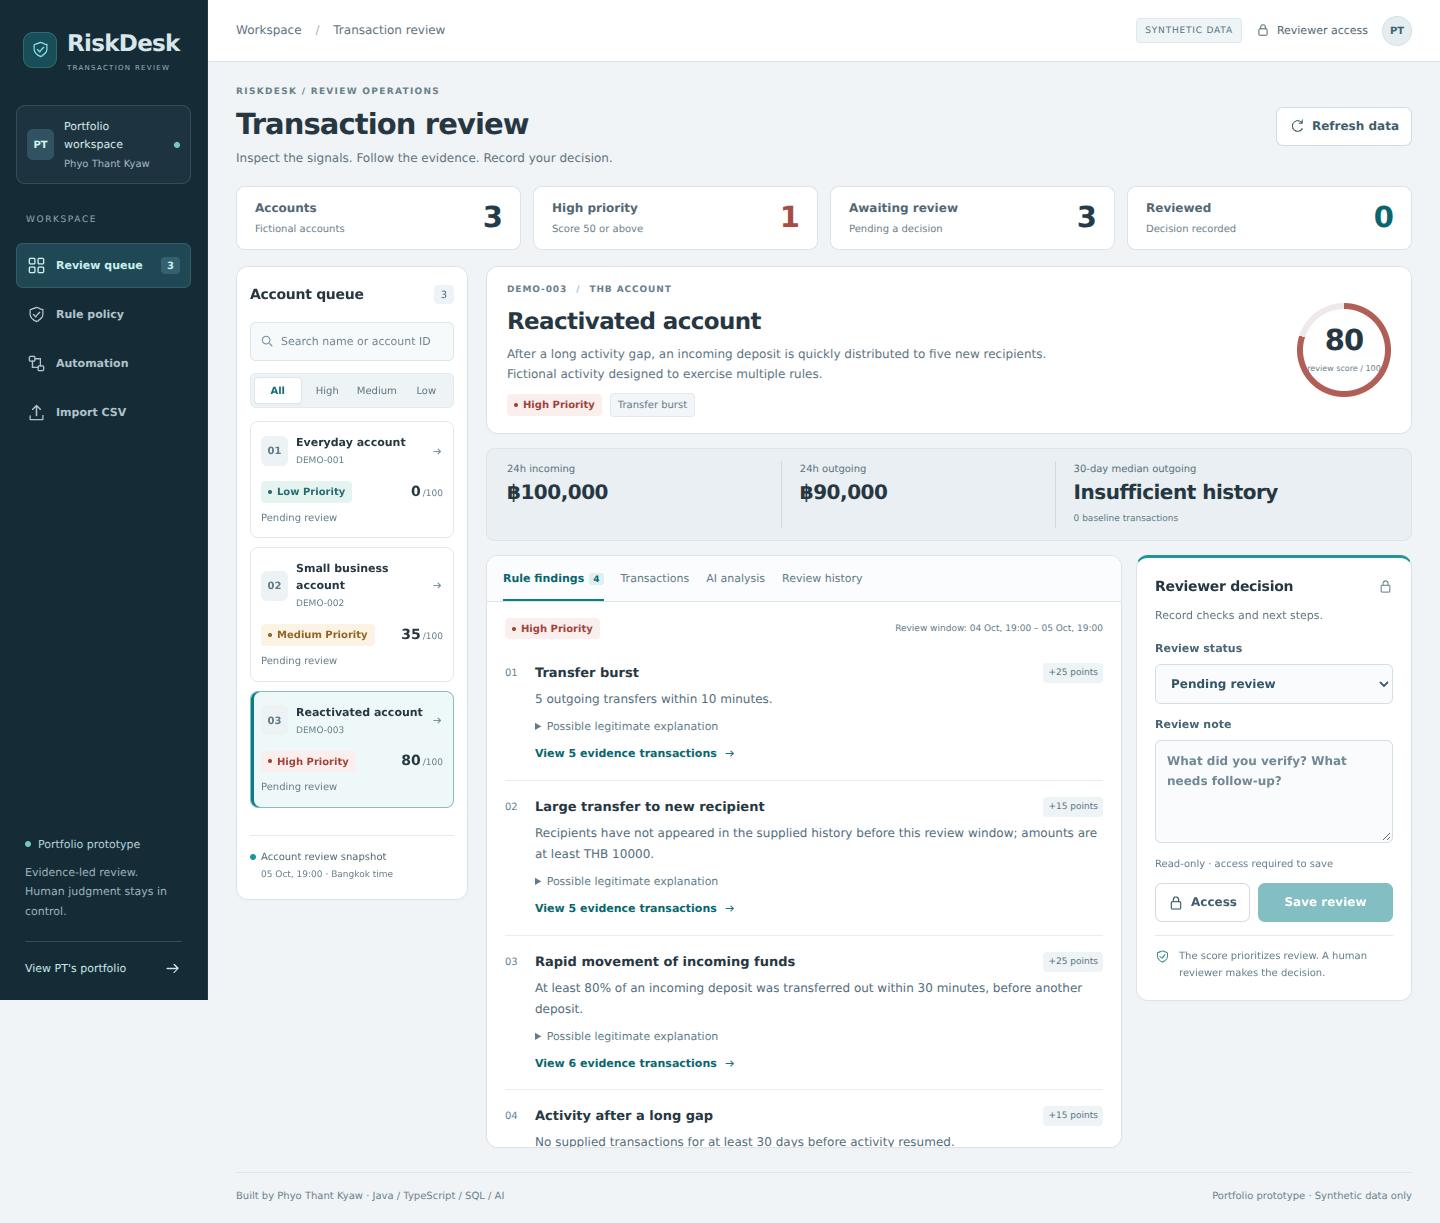
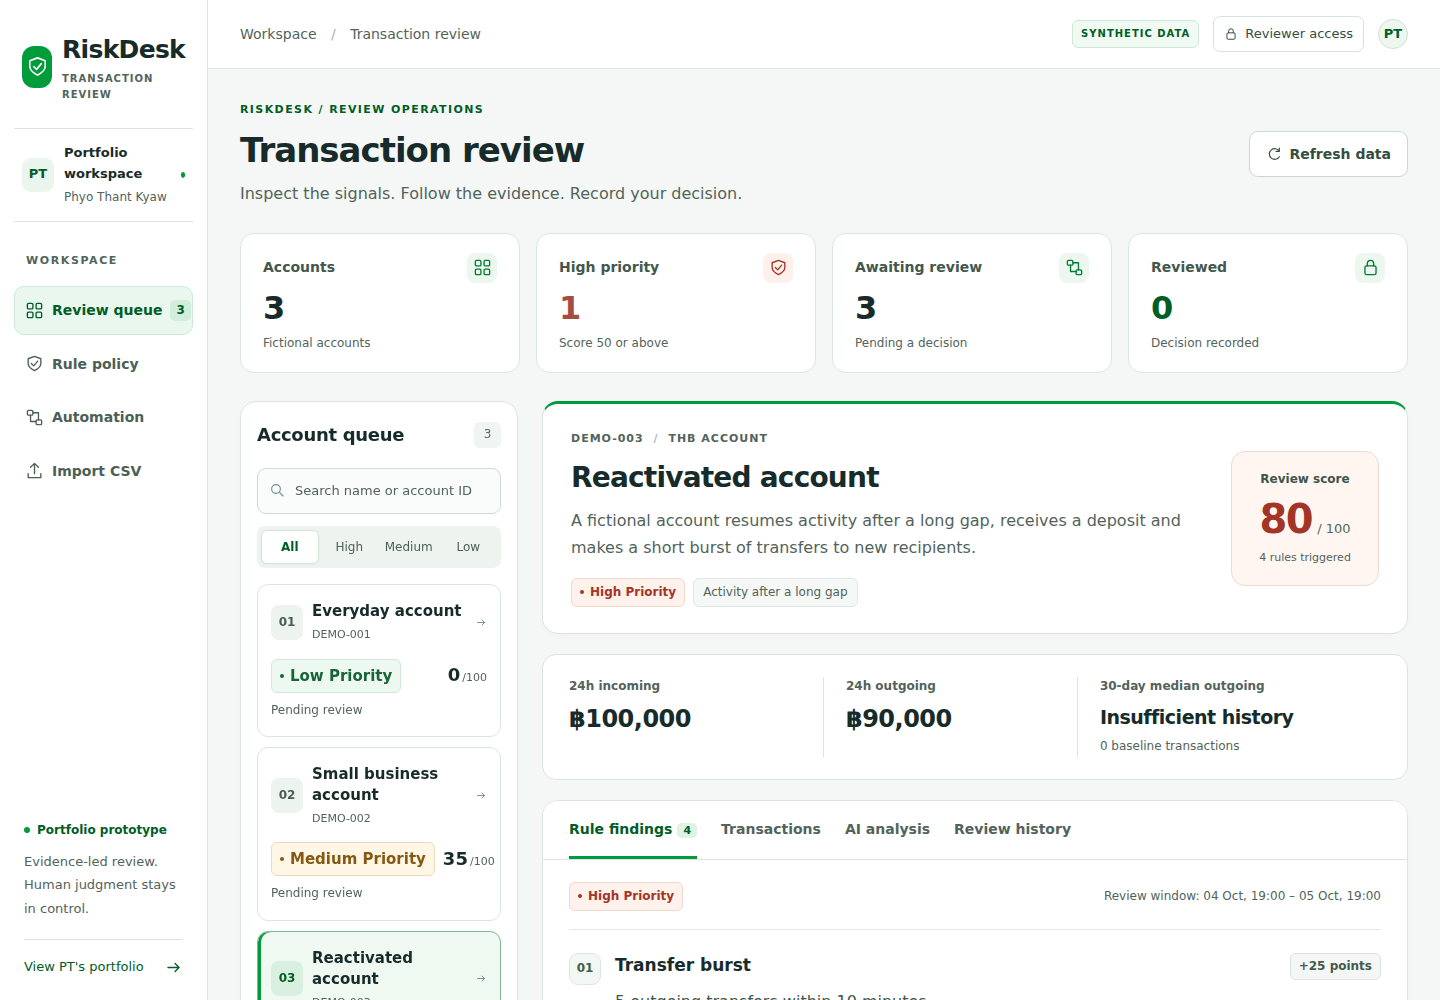
Update portfolio preview for the redesigned RiskDesk

diff --git a/client/src/components/FeaturedProjects.tsx b/client/src/components/FeaturedProjects.tsx
@@ -197,7 +197,7 @@ export default function FeaturedProjects({
                 className="w-full h-auto"
                 loading="lazy"
                 width={1440}
-                height={1223}
+                height={1000}
               />
             </a>
             <p className="text-sm text-secondary-text">
